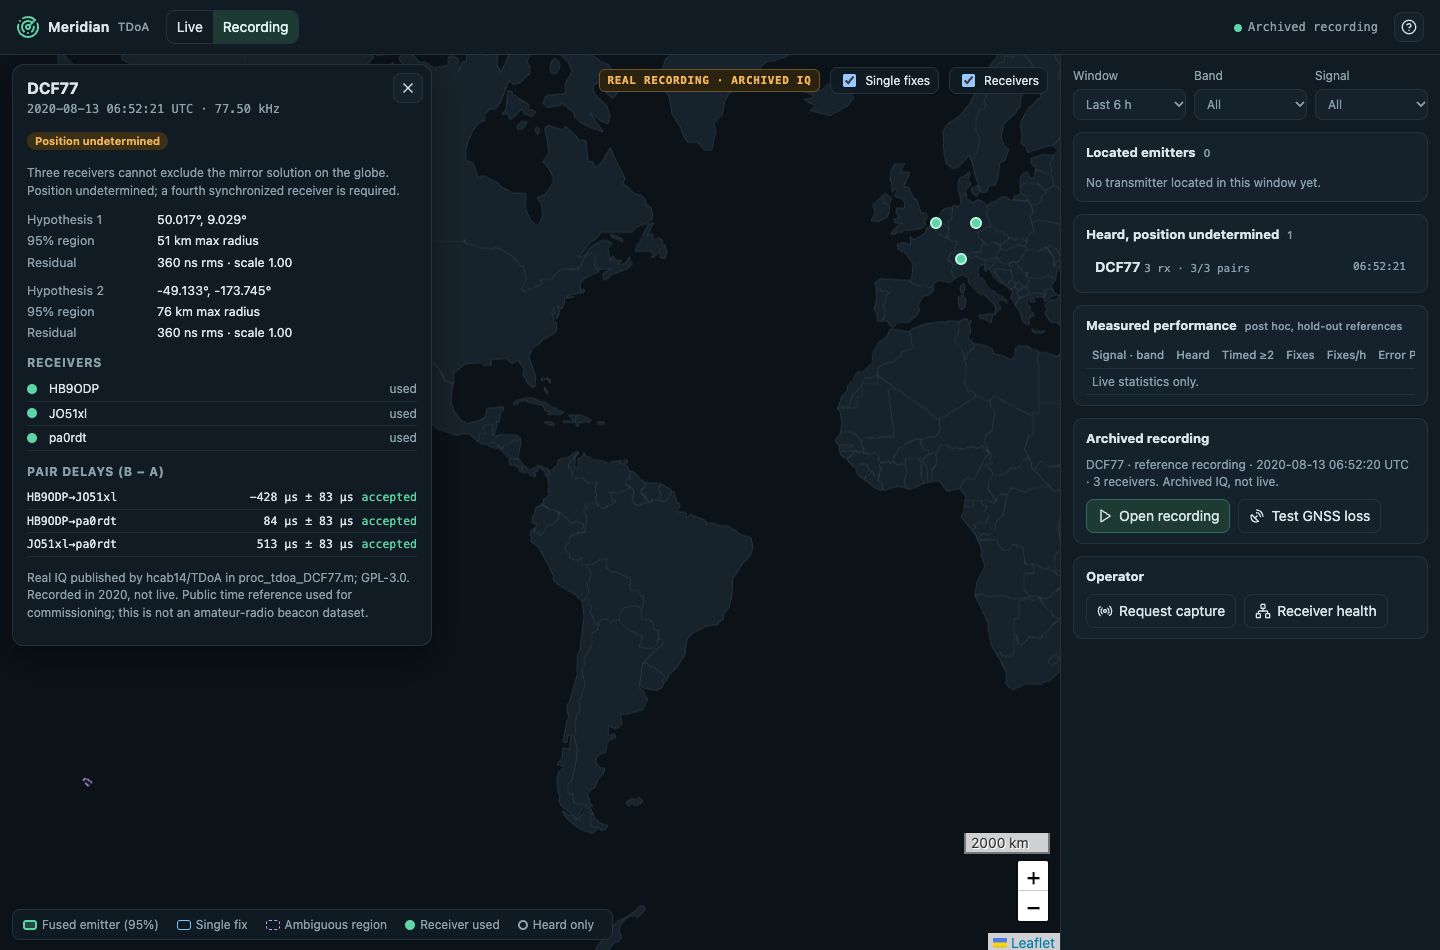
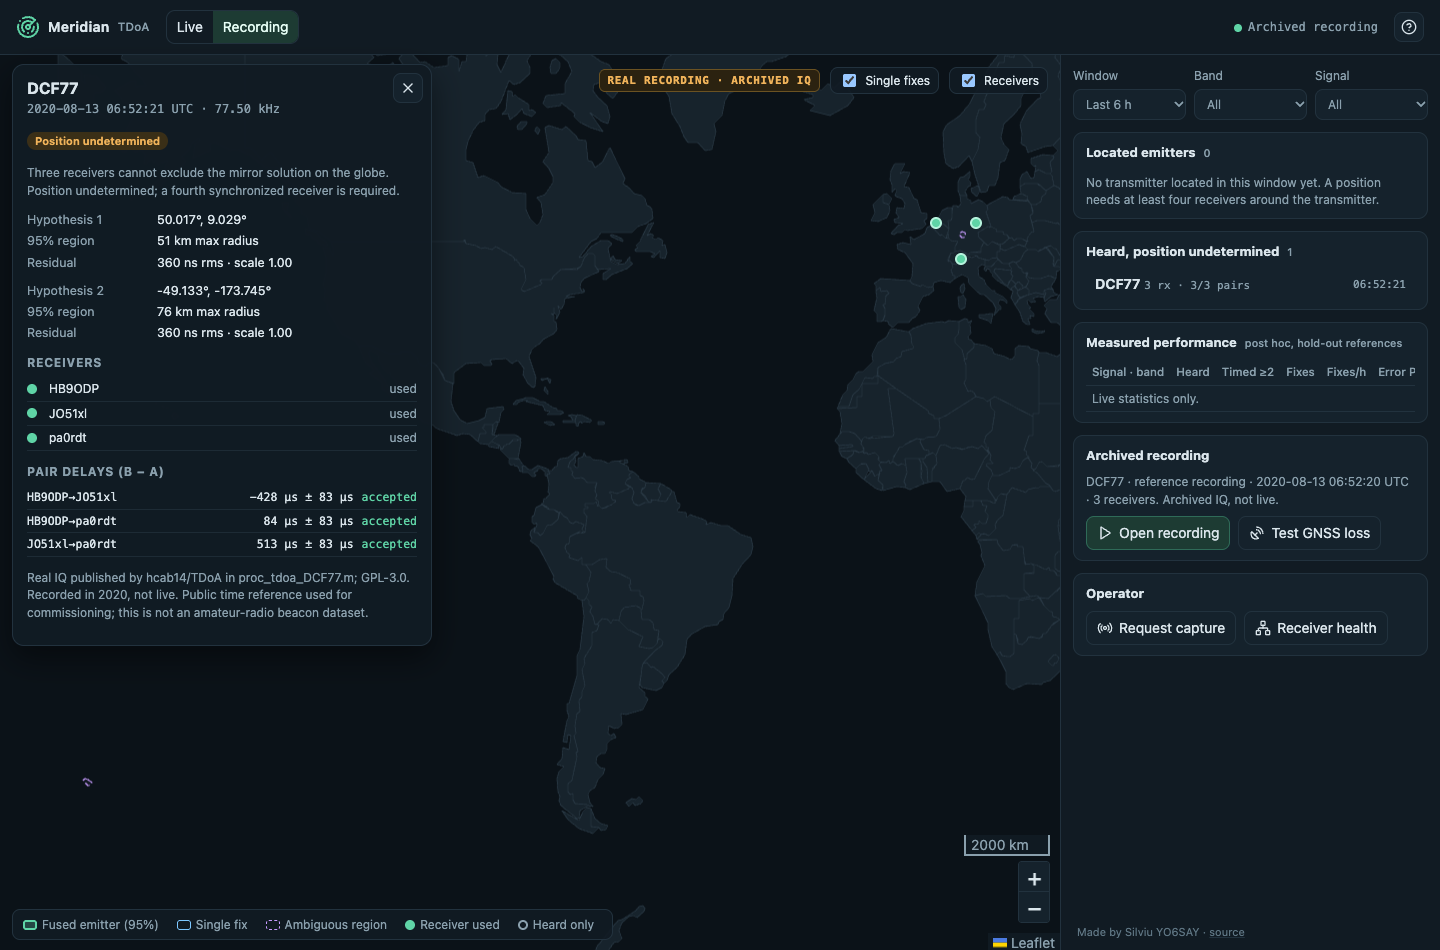
Count down to the next capture window and fit the map on phones
GET /api/monitor returns the scheduler snapshot alone. The map polls it and
shows "Next window in 0:42 · ft8-40m, msf-channel" in a role=timer element
outside the live status region, so screen readers do not announce every
second. When a window starts, the page asks for the following one every
2 s (at most 30 times); a paused scheduler shows its notice instead.

On a 390 px phone the statistics table made the panel 770 px wide, and
mobile Chromium widened the layout viewport to match, so the old overflow
check (scrollWidth - innerWidth) passed. The single column is now
minmax(0, 1fr), the status line and countdown get their own row, and the
check compares with the device width and the panel and badge edges.

Also: the table's first column stays put while it scrolls, Leaflet's light
controls match the dark map, long receiver-health reasons wrap, the empty
list says a fix needs four receivers around the transmitter, and a subtle
footer credits Silviu YO6SAY. docs/RENDER.md names the actual production
rotation instead of the IBP frequencies.

Browser checks: 11/11, including the countdown, the request after a started
window, the pause notice and the stricter mobile layout. Screenshots
regenerated.

diff --git a/web/app.js b/web/app.js
@@ -59,6 +59,58 @@ function setStatus(text, level = "ok") {
   s.innerHTML = `<span class="dot"></span>${esc(text)}`;
 }
 
+// Countdown to the scheduler's next capture window, from the small /api/monitor snapshot.
+// When a window starts the scheduler announces the following one, so the page asks again;
+// receivers are never contacted from here.
+const monitor = { configured: false, nextAt: 0, targets: [], notice: null, skew: 0, polledAt: 0, polls: 0 };
+async function loadMonitor() {
+  monitor.polledAt = Date.now();
+  try {
+    const r = await fetch("/api/monitor");
+    if (r.ok) {
+      // HTTP dates have one-second resolution: correct only a clearly wrong local clock.
+      const server = Date.parse(r.headers.get("date") || "");
+      const skew = isFinite(server) ? server - Date.now() : 0;
+      monitor.skew = Math.abs(skew) > 2000 ? skew : 0;
+      const o = await r.json();
+      const nextAt = o?.next_at ? Date.parse(o.next_at) : 0;
+      if (nextAt > Date.now() + monitor.skew) monitor.polls = 0;
+      Object.assign(monitor, { configured: !!o, nextAt, targets: o?.next_target_ids || [], notice: o?.notice || null });
+    }
+  } catch { /* keep the last known schedule */ }
+  tick();
+}
+const clock = (ms) => {
+  const s = Math.max(0, Math.ceil(ms / 1000));
+  return `${Math.floor(s / 60)}:${String(s % 60).padStart(2, "0")}`;
+};
+function tick() {
+  const el = $("next-window");
+  if (state.mode !== "live" || !monitor.configured || (!monitor.nextAt && !monitor.notice)) {
+    el.hidden = true;
+    return;
+  }
+  el.hidden = false;
+  if (!monitor.nextAt) {
+    el.className = "next-window paused";
+    el.textContent = el.title = monitor.notice;
+    return;
+  }
+  const left = monitor.nextAt - (Date.now() + monitor.skew);
+  const targets = monitor.targets.length ? `<span class="targets"> · ${esc(monitor.targets.join(", "))}</span>` : "";
+  el.className = "next-window";
+  el.title = `Scheduled for ${utc(monitor.nextAt)}${monitor.notice ? " · " + monitor.notice : ""}`;
+  if (left > 0) {
+    el.innerHTML = `Next window in <b>${clock(left)}</b>${targets}`;
+  } else {
+    el.innerHTML = `Window starting…${targets}`;
+    if (Date.now() - monitor.polledAt > 2000 && monitor.polls < 30) {
+      monitor.polls++;
+      loadMonitor();
+    }
+  }
+}
+
 // 95% ellipse from the registry (semi-axes in km, azimuth of the major axis from north).
 function ellipse(center, major, minor, az) {
   const pts = [];
@@ -161,7 +213,10 @@ async function refresh() {
     const scope = [state.mode, band, profile, $("window").value].join("/");
     const q = `mode=${state.mode}&compact=true&start=${start}&end=${end}&band=${band}&scenario=${state.scenario}`;
     const tasks = [api(`/api/emissions?${q}`)];
-    if (state.mode === "live") tasks.push(api(`/api/tracks?since=${start}&band=${band}`), api(`/api/stats?start=${start}&end=${end}`));
+    if (state.mode === "live") {
+      tasks.push(api(`/api/tracks?since=${start}&band=${band}`), api(`/api/stats?start=${start}&end=${end}`));
+      loadMonitor();
+    }
     const [data, tracks, stats] = await Promise.all(tasks);
     if (scope !== [state.mode, $("band").value, $("profile").value, $("window").value].join("/")) { state.pending = true; return; }
     state.data = data;
@@ -175,8 +230,7 @@ async function refresh() {
     if (state.mode === "live") measureMap(scope);
     if (state.mode === "live") {
       const obs = data.monitoring?.segments?.length || 0;
-      const next = data.observatory?.next_at ? ` · next window ${utc(data.observatory.next_at).slice(11, 19)}` : data.observatory?.notice ? ` · ${data.observatory.notice}` : "";
-      setStatus(`${obs} observation(s) in window · ${state.tracks.length} located${next}`, state.stream === "open" ? "ok" : "warn");
+      setStatus(`${obs} observation(s) in window · ${state.tracks.length} located`, state.stream === "open" ? "ok" : "warn");
     }
     if (state.mode === "replay" && !state.selected) {
       const first = data.emissions[0] || data.unlocated[0];
@@ -361,6 +415,7 @@ function setMode(mode) {
   $("mode-badge").className = `badge ${mode === "live" ? "live" : "replay"}`;
   $("replay-card").hidden = mode !== "replay";
   if (mode === "replay") setStatus("Archived recording", "ok");
+  tick();
   refresh();
 }
 
@@ -456,4 +511,5 @@ async function boot() {
 }
 // Fallback refresh when push updates are unavailable; receivers are never contacted from here.
 setInterval(() => { if (state.mode === "live" && !document.hidden && state.stream !== "open") refresh(); }, 30000);
+setInterval(tick, 1000);
 boot();

diff --git a/web/style.css b/web/style.css
@@ -32,7 +32,12 @@ select, input[type="text"], input[type="password"], input[type="url"] { backgrou
 .modes { display: flex; border: 1px solid var(--line); border-radius: 9px; overflow: hidden; }
 .modes button { border: 0; border-radius: 0; background: transparent; }
 .modes button[aria-selected="true"] { background: #1d3b33; color: #e7fff6; }
-.status { margin-left: auto; color: var(--muted); font: 12px var(--mono); white-space: nowrap; overflow: hidden; text-overflow: ellipsis; }
+.status-line { margin-left: auto; display: flex; align-items: center; gap: 14px; min-width: 0; }
+.status { color: var(--muted); font: 12px var(--mono); white-space: nowrap; overflow: hidden; text-overflow: ellipsis; min-width: 0; }
+.next-window { font: 12px var(--mono); color: var(--text); white-space: nowrap; overflow: hidden; text-overflow: ellipsis; max-width: 64ch; flex: none; }
+.next-window b { color: var(--accent); font-weight: 650; font-variant-numeric: tabular-nums; }
+.next-window .targets { color: var(--muted); }
+.next-window.paused { color: var(--warn); flex: 0 1 auto; }
 .status .dot { display: inline-block; width: 8px; height: 8px; border-radius: 50%; background: var(--muted); margin-right: 6px; vertical-align: middle; }
 .status.ok .dot { background: var(--accent); }
 .status.warn .dot { background: var(--warn); }
@@ -75,6 +80,9 @@ table.stats { width: 100%; border-collapse: collapse; font-size: 11.5px; }
 table.stats th, table.stats td { padding: 4px 6px; border-bottom: 1px solid var(--line); text-align: right; white-space: nowrap; }
 table.stats th:first-child, table.stats td:first-child { text-align: left; }
 table.stats th { color: var(--muted); font-weight: 500; }
+/* The row label stays visible while the wide statistics table scrolls sideways. */
+.card table.stats th:first-child, .card table.stats td:first-child { position: sticky; left: 0; background: var(--card); box-shadow: 1px 0 0 var(--line); }
+table.stats td.note { white-space: normal; text-align: left; min-width: 18em; }
 .buttons { display: flex; gap: 8px; flex-wrap: wrap; }
 .replay p { margin: 0 0 8px; color: var(--muted); font-size: 12px; }
 
@@ -113,11 +121,27 @@ dialog::backdrop { background: rgba(0, 0, 0, .55); }
 .rx-icon.heard { border-color: var(--fix); }
 .tx-label { color: #e8fff7; font: 650 11px system-ui; text-shadow: 0 0 3px #000, 0 0 6px #000; white-space: nowrap; }
 
+/* Leaflet's light controls restyled for the dark map. */
+.leaflet-bar, .leaflet-touch .leaflet-bar { border: 1px solid var(--line); box-shadow: none; }
+.leaflet-bar a { background: var(--card); color: var(--text); border-bottom-color: var(--line); }
+.leaflet-bar a:hover, .leaflet-bar a:focus { background: #1a2a35; color: #fff; }
+.leaflet-bar a.leaflet-disabled { background: var(--panel); color: #4a5d69; }
+.leaflet-container .leaflet-control-scale-line { background: rgba(17, 27, 35, .85); color: var(--muted); border-color: var(--muted); text-shadow: none; }
+.leaflet-container .leaflet-control-attribution { background: rgba(17, 27, 35, .85); color: var(--muted); }
+.leaflet-container .leaflet-control-attribution a { color: var(--muted); }
+
+.credit { margin-top: auto; padding: 2px 4px 0; font-size: 11px; color: #5f7684; }
+.credit a { color: inherit; text-decoration-color: var(--line); }
+.credit a:hover { color: var(--text); }
+
 @media (max-width: 860px) {
-  .layout { grid-template-columns: 1fr; height: auto; }
+  /* minmax(0, …): the wide statistics table scrolls inside its card instead of widening the page. */
+  .layout { grid-template-columns: minmax(0, 1fr); height: auto; }
+  .topbar { flex-wrap: wrap; row-gap: 6px; }
+  #help { margin-left: auto; }
+  .status-line { order: 3; flex: 1 1 100%; margin-left: 0; justify-content: space-between; }
   .map-card { height: 62vh; }
   .panel { border-left: 0; border-top: 1px solid var(--line); overflow: visible; }
-  .status { display: none; }
   .filters { grid-template-columns: 1fr 1fr; }
   .legend { display: none; }
   .inspector { top: auto; bottom: 0; left: 0; width: 100vw; max-height: 60vh; border-radius: 12px 12px 0 0; }
@@ -126,4 +150,5 @@ dialog::backdrop { background: rgba(0, 0, 0, .55); }
   .topbar { gap: 8px; padding: 8px 10px; }
   .brand small { display: none; }
   .filters { grid-template-columns: 1fr; }
+  .next-window .targets { display: none; }
 }

diff --git a/web/index.html b/web/index.html
@@ -5,6 +5,7 @@
     <meta name="viewport" content="width=device-width, initial-scale=1" />
     <title>Meridian TDoA</title>
     <meta name="description" content="Transmitters located from our own SDR captures by time difference of arrival." />
+    <meta name="author" content="Silviu YO6SAY" />
     <link rel="stylesheet" href="/vendor/leaflet/leaflet.css" />
     <link rel="stylesheet" href="/style.css" />
     <script defer src="/vendor/leaflet/leaflet.js"></script>
@@ -18,7 +19,10 @@
         <button id="mode-live" role="tab" aria-selected="true">Live</button>
         <button id="mode-replay" role="tab" aria-selected="false">Recording</button>
       </div>
-      <div class="status" id="status" role="status" aria-live="polite">Connecting…</div>
+      <div class="status-line">
+        <div class="status" id="status" role="status" aria-live="polite">Connecting…</div>
+        <span id="next-window" class="next-window" role="timer" hidden></span>
+      </div>
       <button id="help" class="icon-button" title="Method and limits" aria-label="Method and limits"><i data-lucide="circle-help"></i></button>
     </header>
 
@@ -80,7 +84,7 @@
         <section class="card" aria-labelledby="located-title">
           <h2 id="located-title">Located emitters <small id="located-count">0</small></h2>
           <ol id="track-list" class="list"></ol>
-          <p class="empty" id="track-empty">No transmitter located in this window yet.</p>
+          <p class="empty" id="track-empty">No transmitter located in this window yet. A position needs at least four receivers around the transmitter.</p>
         </section>
 
         <section class="card" aria-labelledby="heard-title">
@@ -114,6 +118,8 @@
             <button id="network-open"><i data-lucide="network"></i>Receiver health</button>
           </div>
         </section>
+
+        <footer class="credit">Made by Silviu YO6SAY · <a href="https://github.com/s1lviu/meridian-tdoa" target="_blank" rel="noopener noreferrer">source</a></footer>
       </aside>
     </main>
 

diff --git a/src/main.rs b/src/main.rs
@@ -724,6 +724,11 @@ async fn info(State(app): State<App>) -> Json<Value> {
         json!({"name":"Meridian","version":env!("CARGO_PKG_VERSION"),"live_enabled":app.config.live_enabled,"band_ranges_mhz":bands::BANDS,"admin_configured":app.token.is_some(),"sources":app.config.sources,"targets":app.config.targets,"pending_captures":pending_captures(),"busy":busy(&app),"latest_live":app.db.latest_live_start().ok().flatten().and_then(DateTime::from_timestamp_millis),"datasets":app.datasets.iter().map(|(m,_)|m).collect::<Vec<_>>(),"policy":"Public beacons, participating stations and the public DCF77 time reference for commissioning. Identity is not inferred from frequency or position."}),
     )
 }
+/// Scheduler state alone (next window, its targets, pause notice), cheap enough to poll
+/// for the map's countdown. `null` when no monitor is configured.
+async fn monitor_status(State(app): State<App>) -> Json<Value> {
+    Json(monitor::snapshot(&app))
+}
 #[derive(Default, Deserialize)]
 struct SourceQuery {
     offset: Option<usize>,
@@ -1795,6 +1800,7 @@ async fn main() -> anyhow::Result<()> {
             get(|| async { Json(json!({"status":"ok"})) }),
         )
         .route("/api/info", get(info))
+        .route("/api/monitor", get(monitor_status))
         .route("/api/beacons", get(beacons))
         .route("/api/ready", get(ready))
         .route("/api/sources", get(source_directory))

diff --git a/docs/API.md b/docs/API.md
@@ -6,6 +6,7 @@ JSON over the same origin as the map. Times are RFC 3339 UTC. Request bodies are
 |---|---|---|
 | GET | `/api/health`, `/api/ready` | Process health; readiness with version, `busy` and free workers |
 | GET | `/api/info` | Public configuration, targets, bundled recordings, newest live observation |
+| GET | `/api/monitor` | Scheduler state only: `next_at`, `next_target_ids`, `interval_s`, pause `notice`, `last_jobs`; `null` without a monitor |
 | GET | `/api/tracks` | Emitter registry: fused positions with 95% ellipses (`since`, `band`, `bbox`) |
 | GET | `/api/tracks/{key}` | One emitter with its contributing observations |
 | GET | `/api/emissions` | Observations by time, band, mode and viewport |
@@ -51,6 +52,8 @@ Each estimate carries `center`, the 95% `polygon` and `radius_km`, `residual_us`
 ## Push updates
 
 `GET /api/stream` is an `EventSource` stream. Each `change` event carries `{"latest_live", "live_rows", "tracks_updated"}`; the map refreshes on it instead of polling. Streams end when the server shuts down.
+
+The map's countdown reads `GET /api/monitor`, the same scheduler snapshot as `observatory` in `/api/emissions`. When `next_at` has passed, the scheduler is starting that window and has not yet announced the following one, so the map asks again every 2 s, at most 30 times. With `next_at: null`, a `notice` explains why the monitor paused.
 
 ## Node detections
 

diff --git a/docs/RENDER.md b/docs/RENDER.md
@@ -21,7 +21,7 @@ If Render reports `max shutdown delay is not supported for free tier services`, 
 
 ## Free-plan limitations
 
-The production profile rotates between the five International Beacon Project frequencies and DCF77 while the server is awake. On this hosting plan the monitor pauses during service sleep. Successful live RF acquisition must be verified on the chosen host.
+While the server is awake, the production profile monitors DCF77, MSF, two public AM channels (648 kHz and 5 MHz) and five FT8 bands, two channels per 60-second window (`config/production.json`); the map counts down to the next window. On this hosting plan the monitor pauses during service sleep. Successful live RF acquisition must be verified on the chosen host.
 
 The service sleeps after 15 minutes without inbound traffic. New IQ, results and job history are lost on restart, redeploy or sleep; bundled historical files are restored from the image. Free has no persistent disks and may be suspended for excessive service-initiated internet traffic. Its 512 MB RAM has not been validated for the full allowed workload. Artificial keep-alive traffic is not used.
 
